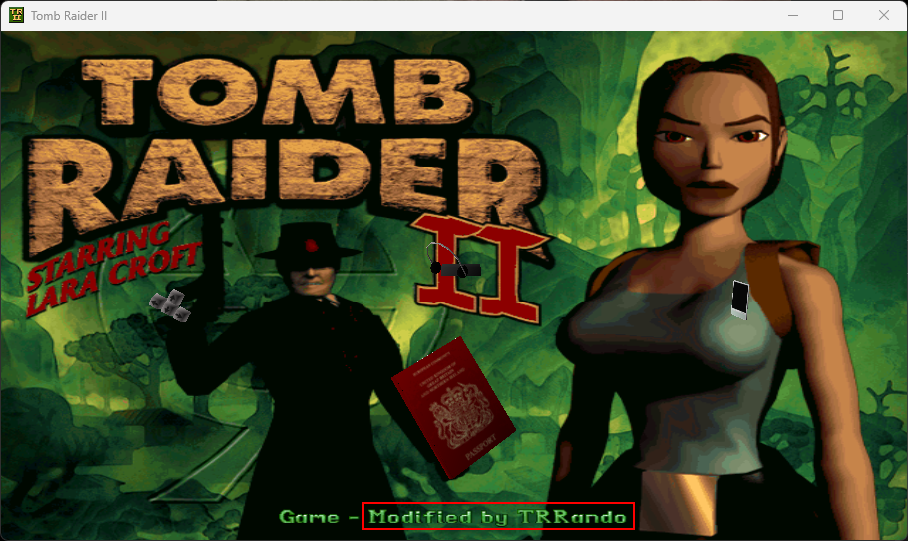
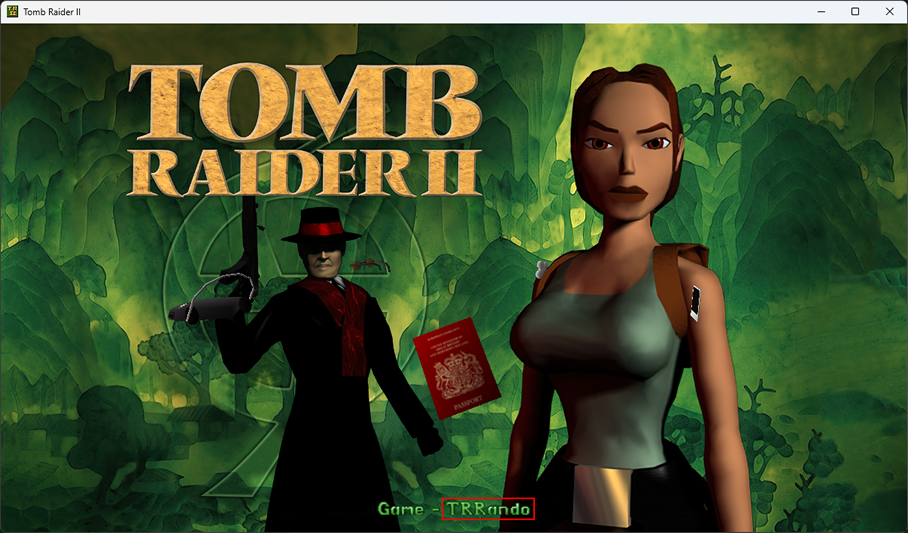
Use same stamp for classic and TRR
TRR uses bigger font. This is more succinct anyway.

diff --git a/TRRandomizerView/App.xaml.cs b/TRRandomizerView/App.xaml.cs
@@ -60,9 +60,9 @@ public partial class App : Application
 
         TRRandomizerCoord.Instance.Initialise("TR2Rando", Version, TaggedVersion, new ModificationStamp
         {
-            English = "Modified by TRRando",
-            French = "Modifié par TRRando",
-            German = "Geändert von TRRando"
+            English = "TRRando",
+            French = "TRRando",
+            German = "TRRando"
         });
     }
 }
